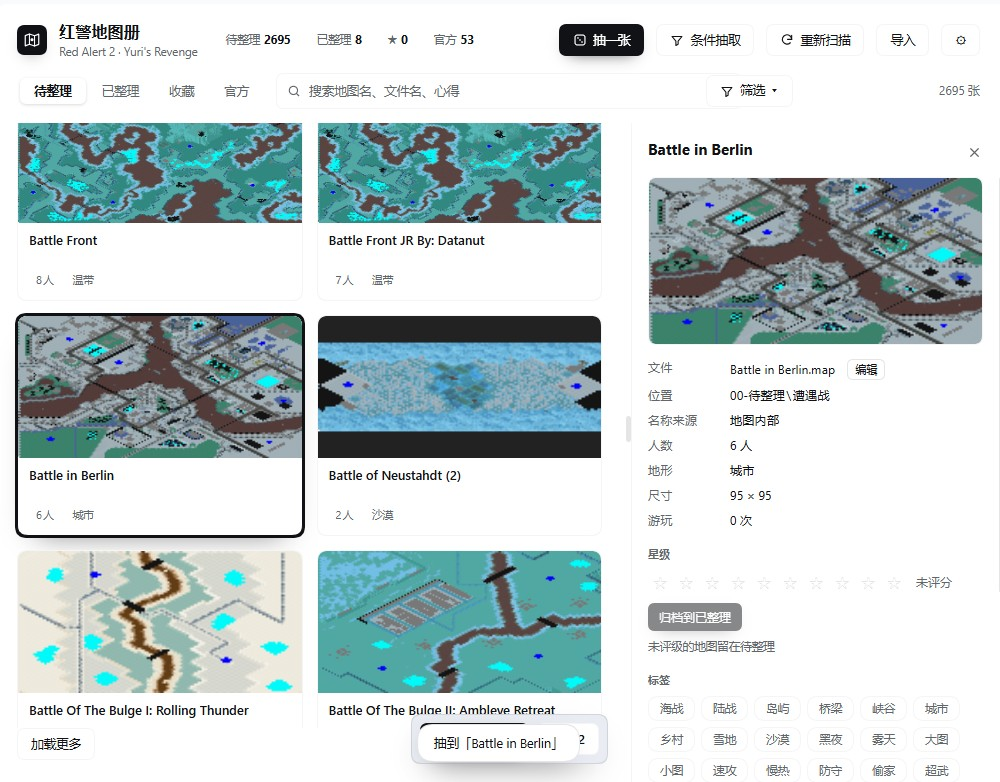
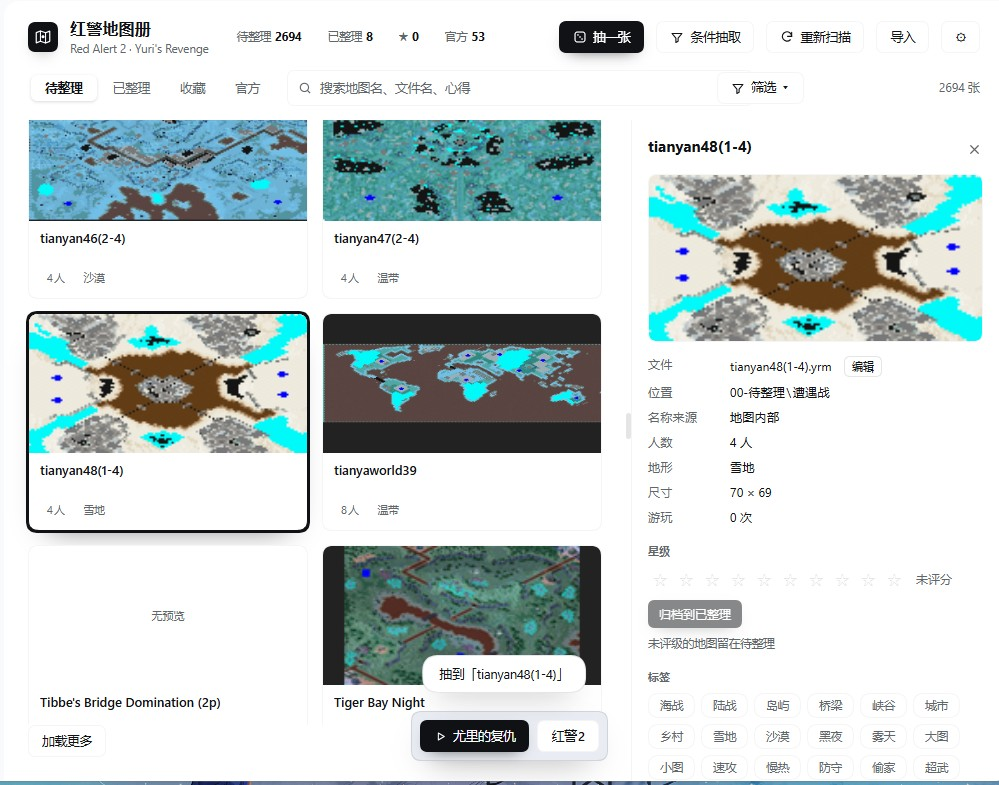
先放着放回待整理；更新抽图与已整理截图

diff --git a/client.js b/client.js
@@ -22,7 +22,7 @@ window.__ModuleLoader__.load({
     const API = '/yr-map-atlas/api';
     // Reverse lookup: keep the Chinese literal inline, swap it at render time.
     let curLocale = 'zh';
-    const EN_UI = {"红警地图册": "Map Atlas", "待整理": "Pool", "已整理": "Owned", "抽一张": "Draw", "重新扫描": "Rescan", "确认归位": "Save", "再来一局": "Play again", "先放着": "Later", "删除": "Delete", "加载更多": "Load more", "打开文件夹": "Open folder", "正在建立索引": "Indexing", "没有匹配的地图": "No matching maps", "搜索地图名、文件名、心得": "Search map name, file name or notes", "首次设置": "First-time setup", "三步完成，之后可在设置里修改": "Three steps. You can change everything later in Settings.", "① 地图库放在哪里": "1  Where should the library live?", "所有地图、星级文件夹和笔记都会放在这里": "Maps, star folders and notes all live here", "选择文件夹": "Choose folder", "重新检测": "Re-check", "中文（00-待整理 / 1人 / 0星）": "Chinese (00-待整理 / 1人 / 0星)", "Chinese (00-待整理 / 1人 / 0星)": "English (00-Inbox / 1P / 0Star)", "目录命名": "Folder naming", "② 游戏目录（可跳过）": "2  Game folder (optional)", "跳过": "Skip", "开始建立": "Build library", "正在建立…": "Building…", "目录可写": "folder is writable", "⚠ 这个目录不可写": "⚠ folder is not writable", "目录已存在": "folder exists", "目录不存在，将自动创建": "will be created", "检测到已有地图库，将直接使用": "Existing library found — it will be used as is", "张地图": "maps found", "找到启动程序": "launchers found", "没找到启动程序，可稍后在设置里指定": "No launcher found — you can set it later in Settings", "界面语言": "Language", "请先选择地图库文件夹": "Choose the library folder first", "建立失败": "Setup failed", "无法打开目录选择器：": "Folder picker failed: ", "插件未就绪": "Plugin not ready", "无法打开会话": "Could not open a conversation", "导入": "Import", "导入地图": "Import maps", "把旧文件夹里的地图和压缩包收进地图库": "Bring maps and archives from an old folder into the library", "关闭": "Close", "① 选择要导入的文件夹": "1  Choose the folder to import", "选原来的地图目录，或放着压缩包的下载文件夹": "Pick your old map folder, or the folder holding the archives", "粘贴路径或点右边选择": "paste a path or pick on the right", "开始扫描": "Scan", "扫描中…": "Scanning…", "正在扫描…": "Scanning…", "正在导入…": "Importing…", "取消": "Cancel", "② 扫描结果": "2  Scan result", "③ 处理方式": "3  How to handle", "重复地图（与库里内容相同的）": "Duplicate maps (same content as the library)", "只留一份": "Keep one", "移到 _重复": "Move to _Duplicates", "全都保留": "Keep all", "文件名": "File name", "用地图内部名": "Use the map title", "保持原文件名": "Keep the original", "压缩包": "Archives", "解压后归档": "Extract, then archive", "原样归档": "Archive as-is", "预览图": "Preview images", "归档": "Archive", "开始导入": "Start import", "④ 完成": "4  Done", "撤销这次导入": "Undo this import", "把这次导入的文件全部搬回原处？": "Move every file from this import back?", "撤销失败": "Undo failed", "请先选择文件夹": "Choose a folder first", "扫描失败": "Scan failed", "导入失败": "Import failed", "地图库位置": "Library folder", "游戏目录（留空 = 纯收藏）": "Game folder (blank = collection only)", "不填就不启动游戏": "leave blank to never launch the game", "保存": "Save", "保存中…": "Saving…", "尚未初始化": "not configured", "维护": "Maintenance", "检查地图": "Check maps", "检查并修复": "Check and fix", "重建索引": "Rebuild index", "导出诊断包": "Export diagnostics", "打包中…": "Packing…", "已保存，正在重建索引": "Saved, rebuilding the index", "开始检查": "Check started", "检查并修复已开始": "Check & fix started", "诊断包已生成：": "Diagnostics written: ", "导出失败": "Export failed", "检查中 ": "Checking ", "✔ 正常 ": "✔ healthy ", " · 可修复 ": " · fixable ", " · 已隔离 ": " · quarantined ", " · 格式异常 ": " · odd format ", "无预览": "no preview", "未评分": "unrated", "点击取消": "click to remove", "自定义标签，回车添加": "custom tag, Enter to add", "添加": "Add", "温带": "Temperate", "雪地": "Snow", "沙漠": "Desert", "城市": "Urban", "月球": "Lunar", "默认": "Default", "名称": "Name", "星级": "Stars", "最近游玩": "Recent", "人数": "Players", "玩得多": "Most played", "筛选": "Filter", "地形": "Terrain", "排序": "Sort", "清空筛选": "Clear filters", "无筛选": "No filters", "收起": "Done", "已保存": "Saved", "保存失败": "Save failed", "网络错误": "Network error", "手工指定": "Set by hand", "地图内部": "Map file", "文件": "File", "位置": "Path", "名称来源": "Name from", "尺寸": "Size", "游玩": "Played", "崩溃": "Crashes", "标签": "Tags", "心得": "Notes", "对局记录": "Sessions", "已收藏": "Favorited", "收藏": "Favorite", "取消收藏": "Remove from favorites", "加入收藏": "Add to favorites", "未评级的地图留在待整理": "Unrated maps stay in the pool", "记录打法和注意事项…": "How it plays, what to avoid…", "官方图 · 只读": "official · read-only", "处理中…": "Working…", "删除失败": "Delete failed", "确定删除「": "Delete \"", "」？文件会被直接删除。": "\"? The file is removed.", "交给 AI": "Ask AI", "一键修复": "Auto-fix", "交给 AI 修复": "Ask AI to fix", "检查中…": "Checking…", "生成工单…": "Preparing…", "修复失败": "Repair failed", "生成工单失败": "Could not build the brief", "检查完成，没有需要修复的问题": "Checked — nothing to fix", "这一局异常结束": "This session ended abnormally", "上一局还没有评级": "The last session is not rated yet", "不评级也可以归位，记为 0 星": "You can file it without rating — it counts as 0 stars.", "这张图会被直接删除，确定？": "This map will be deleted. Continue?", "删除这张图": "Delete this map", "已生成修复版：": "Repaired copy: ", "检查结果": "Check result", "没有发现问题": "No problems found", "直接启动修复版": "Launch the repaired copy", "简单写写就行，也可以跳过": "A line or two is fine — or skip it", "抽到「": "Drew \"", "抽图失败": "Draw failed", "游戏已启动，打完后回来记录": "Game started. Come back here when you are done.", "已复制到游戏目录，启动失败：": "Copied to the game folder but the launch failed: ", "先放着，下次再说": "Left for later", "游戏已重启": "Game restarted", "已归位": "Filed", "已删除": "Deleted", "待整理 ": "Pool ", "已整理 ": "Owned ", "官方 ": "Official ", "官方": "official", "红警2": "RA2", "尤里": "YR", "尤里的复仇": "Yuri's Revenge", "修复工单已放进新对话的输入框，按回车开始": "Brief placed in a new conversation — press Enter", "修复工单已复制到剪贴板": "Brief copied to the clipboard", "修复工单已复制到剪贴板：": "Brief copied to the clipboard: ", "工单已填入新对话，按回车开始": "Brief placed in a new conversation — press Enter", "工单已复制到剪贴板": "Brief copied to the clipboard", "已发到地图修复对话": "Sent to the repair conversation", "启动中…": "Starting…", "启动失败": "Launch failed", "启动失败：": "Launch failed: ", "部署失败": "Deploy failed", "未知原因": "unknown reason", "未知": "unknown", "人": "P", "星": " star", "张": "", "次": "", "秒": "s", " 张 · 与库重复 ": " maps · duplicate ", " · 可新增 ": " · new ", " 个文件，": " files, ", " 个官方图包混在待整理里": " official packs sit in the pool", "发现 ": "Found ", " 待整理 · ": " pool · ", " 已整理": " owned", " 小时 ": " h ", " 分": " m", " 分 ": " m ", "，最近": ", last", " 个文件处理失败：": " files failed: ", "已还原 ": "Restored ", " 个文件": " files", "地图 ": "Maps ", "压缩包 ": "Archives ", " · 图片 ": " · images ", " · 其它 ": " · other ", "✔ 新增地图 ": "✔ added ", "· 跳过重复 ": "· skipped ", " · 移到 _重复 ": " · moved to _Duplicates ", "· 归档压缩包 ": "· archived ", " · 解出地图 ": " · extracted ", " · 归档图片 ": " · images ", "① 扫描": "1 scan", "编辑": "Edit", "改名失败": "Rename failed", "已重命名为 ": "Renamed to ", "已打开所在文件夹": "Opened the containing folder", "打开失败": "Could not open", "这张图没有崩溃记录，仍要生成修复工单吗？": "This map has no crash record. Create a repair brief anyway?", "异常修复": "Fix issue", "深度修复": "Deep repair", "整理崩溃现场与结构检查，交给 AI 分析": "Collect the crash context and a structure check for the AI", "自动修复已知问题（座位数不符、MaxPlayer 越界）": "Fix known problems automatically (seat count, MaxPlayer overflow)", "把崩溃现场交给 AI 分析": "Hand the crash context to the AI", "填了才能抽图启动游戏；留空则只做收藏整理": "Draw can launch the game only when this is set. Leave it blank to keep the library only.", "保存后会归位到对应星级文件夹": "Saving files it into the matching star folder", " 人": " players", " 次": " times", " 星": " stars", "，最近 ": ", last ", "新城市": "New Urban", "开始检查并修复": "Check and fix started", "使用说明与常见问题": "Guide and FAQ", "它是什么": "What it is", "把散落的地图整理成库，抽一张进游戏，打完按星级归位，顺手记下心得。": "Turn a pile of map files into a library: draw one, play it, file it by rating, keep a note.", "地图文件内容不动，只按你的评价换文件夹；所有记录存在库里的 .atlas 目录。": "Map files are never edited — only moved between folders. Records live in .atlas inside the library.", "怎么用": "How to use it", "1 放地图": "1  Add maps", "把地图文件放进 00-待整理\\遭遇战，或点右上「导入」批量收进来": "Drop map files into the pool folder, or use Import to bring in a whole folder", "2 抽图": "2  Draw", "点「抽一张」，选尤里或红警2，地图会复制进游戏目录并启动游戏": "Draw copies the map into the game folder and starts the game", "3 打完": "3  Settle", "回到面板点「确认归位」，给星级、选标签、写几句心得": "Come back and press Save: rate it, tag it, write a line or two", "4 归位": "4  File it", "文件自动移到 01-遭遇战\\N人\\N星，之后抽图不会再抽到已评价的图": "The file moves into its player/star folder and will not be drawn again", "5 找图": "5  Find it", "按人数、地形、星级、标签筛选；已整理的地图可以点星收藏": "Filter by players, terrain, stars or tag; star the ones you like", "目录说明": "Folders", "还没评价的图，抽图从这里取": "Unrated maps; the draw pulls from here", "已归位的对战图，按人数和星级分层": "Filed maps, split by players and stars", "战役和任务包": "Campaigns and mission packages", "压缩包、预览图等原始素材": "Archives, previews and other source material", "索引、缩略图、记录；跟着库走，换电脑拷过去即可": "Index, thumbnails, records — travels with the library", "常见问题": "FAQ", "改名会丢记录吗？": "Does renaming lose my record?", "不会。记录按文件内容（MD5）认，改名、移动都不影响。": "No. Records are keyed by file content (MD5), so renaming and moving are safe.", "星级为什么存两处？": "Why are stars stored twice?", "文件夹代表位置，记录代表分数；在面板里评级时两者一起改。": "The folder is where it lives, the record is the score; rating in the panel updates both.", "官方图能评价吗？": "Can I rate official maps?", "能评分、能写心得，但文件是游戏自带的，不会移动或改名。": "Yes, but the files ship with the game: they are never moved or renamed.", "地图一进就崩？": "The map crashes on load?", "结算卡先点「一键修复」，修不了再点「异常修复」，把崩溃现场交给 AI 分析。": "Try Auto-fix first; if that fails use Fix issue to hand the crash context to the AI.", "换电脑怎么搬？": "How do I move to another PC?", "设置里「导出配置」，新机器「导入配置」，再把整个地图库文件夹拷过去。": "Export config on the old machine, import it on the new one, and copy the library folder over.", "导出的是地图吗？": "Does the export include the maps?", "不是。只有星级、标签、心得、收藏和手工命名，地图文件请自行拷贝。": "No. Only stars, tags, notes, favourites and names. Copy the map files yourself.", "导入会覆盖吗？": "Will importing overwrite anything?", "默认合并，只补本地没有的记录；想全部覆盖选「覆盖」模式。": "Merge is the default and only fills gaps. Choose Replace to overwrite.", "能同时用多个库吗？": "Can I use several libraries?", "一次一个库。换库在设置里改路径，旧库的数据留在旧文件夹里。": "One at a time. Switch in Settings; the old library keeps its own data.", "关于": "About", "作者": "Author", "一尾醋醋鱼": "一尾醋醋鱼", "配置格式": "Config format", "配置备份": "Config backup", "只含记录（星级、标签、心得、收藏、命名），不含地图文件；换电脑时把整个地图库一起拷过去": "Records only (stars, tags, notes, favourites, names) — no map files. Copy the library itself separately.", "导出配置": "Export config", "刷新列表": "Refresh", "还没有备份": "No backups yet", "条记录": " records", "个命名": " names", "合并导入": "Merge", "覆盖导入": "Replace", "读取失败": "Could not read", "已导出：": "Exported: ", "已导入 ": "Imported ", " 条（跳过 ": " (skipped ", " 条，": ", ", " 条在库里找不到对应地图）": " have no matching map in this library)", "确定用「": "Import this backup using \"", "」方式导入这份配置？": "\"?", "合并": "merge", "覆盖": "replace", "评级已保存，文件仍留在待整理；打完「确认归位」才归档": "Rating saved. The file stays in the pool until the session is settled.", "保存后会移动到对应星级文件夹": "Saving moves it into the matching star folder", "归档到已整理": "File it", "归档失败": "Could not file it", "不需要真的打一局，直接移动到已整理": "Skip playing — move it into the owned set right away", "可以点「归档到已整理」直接搬过去，不必真的打一局": "Press \"File it\" to move it across without playing a round", "已归档到 ": "Filed at ", "加载中…": "Loading…", "条件抽取": "Draw by filter", "从哪儿抽": "Draw from", "抽取": "Draw", "抽取中…": "Drawing…", "符合条件 ": "Matching: ", " 张": "", "只看收藏": "Favourites only", "还没有任何标签": "No tags yet", "作战配置": "Gameplay options", "写进游戏自己的配置文件，启动游戏前生效；首次写入会自动备份": "Written into the game's own INI and applied before launch. A backup is made on first write.", "起始资金": "Starting credits", "游戏速度": "Game speed", "单位数": "Unit count", "科技等级": "Tech level", "快速游戏": "Short game", "超级武器": "Superweapons", "箱子": "Crates", "盟友建造": "Build off ally", "MCV 重部署": "MCV re-deploy", "迷雾": "Fog of war", "多工程师": "Multi engineer", "可摧毁桥梁": "Destructible bridges", "自定义参数": "Custom keys", "每行一个 key=value，教程里的隐藏选项都可以加在这里": "One key=value per line — put hidden options from tutorials here", "启动游戏前自动应用": "Apply before launch", "立即写入": "Write now", "还原备份": "Restore backup", "还原中…": "Restoring…", "已写入游戏配置": "Written into the game config", "已还原原始配置": "Original config restored", "还原失败": "Restore failed", "找不到文件：": "File not found: ", "开": "On", "关": "Off", "游戏模式": "Game mode", "作战": "Battle", "自由交战": "Free-for-all", "合作模式": "Co-op", "邪恶联盟": "Evil alliance", "巨富": "Rich", "抢地盘": "Land grab", "生死斗": "Deathmatch", "海战": "Naval war", "小队联盟": "Squad alliance", "所有电脑围攻你一个": "Every AI attacks you", "大乱斗": "Everyone against everyone", "和小队协作": "Team up with a squad", "可发展所有国家的科技": "Build every side's tech", "无矿场，只能靠占油井收入": "No ore drills — income comes from oil derricks", "开局几条狗，地盘全靠抢": "Start with a few dogs; grab ground fast", "无高科技": "No high tech", "无坦克": "No tanks", "和电脑一起打电脑": "Fight the AI alongside an AI", "当前：": "Current: ", "当前未设置，游戏默认是 1 作战": "Not set — the game defaults to 1 Battle", "改完要重启游戏；游戏运行中会把这个文件写回默认值": "Restart the game after changing this; a running game writes the file back", "地图库设置": "Library setup", "作战配置、配置备份、体检、导入，都在「设置 → 红警地图册」里": "Gameplay options, backup, health check and import all live in Settings → Map Atlas", "插件设置": "Plugin settings", "配置备份、体检、诊断包在「设置 → 红警地图册」里": "Config backup, health check and diagnostics live in Settings → Map Atlas", "搜索标签，或输入新名字回车创建": "Search tags, or type a new one and press Enter", "没有这个标签，回车新建": "No such tag — press Enter to create it", "新建": "Create"};
+    const EN_UI = {"红警地图册": "Map Atlas", "待整理": "Pool", "已整理": "Owned", "抽一张": "Draw", "重新扫描": "Rescan", "确认归位": "Save", "再来一局": "Play again", "先放着": "Later", "删除": "Delete", "加载更多": "Load more", "打开文件夹": "Open folder", "正在建立索引": "Indexing", "没有匹配的地图": "No matching maps", "搜索地图名、文件名、心得": "Search map name, file name or notes", "首次设置": "First-time setup", "三步完成，之后可在设置里修改": "Three steps. You can change everything later in Settings.", "① 地图库放在哪里": "1  Where should the library live?", "所有地图、星级文件夹和笔记都会放在这里": "Maps, star folders and notes all live here", "选择文件夹": "Choose folder", "重新检测": "Re-check", "中文（00-待整理 / 1人 / 0星）": "Chinese (00-待整理 / 1人 / 0星)", "Chinese (00-待整理 / 1人 / 0星)": "English (00-Inbox / 1P / 0Star)", "目录命名": "Folder naming", "② 游戏目录（可跳过）": "2  Game folder (optional)", "跳过": "Skip", "开始建立": "Build library", "正在建立…": "Building…", "目录可写": "folder is writable", "⚠ 这个目录不可写": "⚠ folder is not writable", "目录已存在": "folder exists", "目录不存在，将自动创建": "will be created", "检测到已有地图库，将直接使用": "Existing library found — it will be used as is", "张地图": "maps found", "找到启动程序": "launchers found", "没找到启动程序，可稍后在设置里指定": "No launcher found — you can set it later in Settings", "界面语言": "Language", "请先选择地图库文件夹": "Choose the library folder first", "建立失败": "Setup failed", "无法打开目录选择器：": "Folder picker failed: ", "插件未就绪": "Plugin not ready", "无法打开会话": "Could not open a conversation", "导入": "Import", "导入地图": "Import maps", "把旧文件夹里的地图和压缩包收进地图库": "Bring maps and archives from an old folder into the library", "关闭": "Close", "① 选择要导入的文件夹": "1  Choose the folder to import", "选原来的地图目录，或放着压缩包的下载文件夹": "Pick your old map folder, or the folder holding the archives", "粘贴路径或点右边选择": "paste a path or pick on the right", "开始扫描": "Scan", "扫描中…": "Scanning…", "正在扫描…": "Scanning…", "正在导入…": "Importing…", "取消": "Cancel", "② 扫描结果": "2  Scan result", "③ 处理方式": "3  How to handle", "重复地图（与库里内容相同的）": "Duplicate maps (same content as the library)", "只留一份": "Keep one", "移到 _重复": "Move to _Duplicates", "全都保留": "Keep all", "文件名": "File name", "用地图内部名": "Use the map title", "保持原文件名": "Keep the original", "压缩包": "Archives", "解压后归档": "Extract, then archive", "原样归档": "Archive as-is", "预览图": "Preview images", "归档": "Archive", "开始导入": "Start import", "④ 完成": "4  Done", "撤销这次导入": "Undo this import", "把这次导入的文件全部搬回原处？": "Move every file from this import back?", "撤销失败": "Undo failed", "请先选择文件夹": "Choose a folder first", "扫描失败": "Scan failed", "导入失败": "Import failed", "地图库位置": "Library folder", "游戏目录（留空 = 纯收藏）": "Game folder (blank = collection only)", "不填就不启动游戏": "leave blank to never launch the game", "保存": "Save", "保存中…": "Saving…", "尚未初始化": "not configured", "维护": "Maintenance", "检查地图": "Check maps", "检查并修复": "Check and fix", "重建索引": "Rebuild index", "导出诊断包": "Export diagnostics", "打包中…": "Packing…", "已保存，正在重建索引": "Saved, rebuilding the index", "开始检查": "Check started", "检查并修复已开始": "Check & fix started", "诊断包已生成：": "Diagnostics written: ", "导出失败": "Export failed", "检查中 ": "Checking ", "✔ 正常 ": "✔ healthy ", " · 可修复 ": " · fixable ", " · 已隔离 ": " · quarantined ", " · 格式异常 ": " · odd format ", "无预览": "no preview", "未评分": "unrated", "点击取消": "click to remove", "自定义标签，回车添加": "custom tag, Enter to add", "添加": "Add", "温带": "Temperate", "雪地": "Snow", "沙漠": "Desert", "城市": "Urban", "月球": "Lunar", "默认": "Default", "名称": "Name", "星级": "Stars", "最近游玩": "Recent", "人数": "Players", "玩得多": "Most played", "筛选": "Filter", "地形": "Terrain", "排序": "Sort", "清空筛选": "Clear filters", "无筛选": "No filters", "收起": "Done", "已保存": "Saved", "保存失败": "Save failed", "网络错误": "Network error", "手工指定": "Set by hand", "地图内部": "Map file", "文件": "File", "位置": "Path", "名称来源": "Name from", "尺寸": "Size", "游玩": "Played", "崩溃": "Crashes", "标签": "Tags", "心得": "Notes", "对局记录": "Sessions", "已收藏": "Favorited", "收藏": "Favorite", "取消收藏": "Remove from favorites", "加入收藏": "Add to favorites", "未评级的地图留在待整理": "Unrated maps stay in the pool", "记录打法和注意事项…": "How it plays, what to avoid…", "官方图 · 只读": "official · read-only", "处理中…": "Working…", "删除失败": "Delete failed", "确定删除「": "Delete \"", "」？文件会被直接删除。": "\"? The file is removed.", "交给 AI": "Ask AI", "一键修复": "Auto-fix", "交给 AI 修复": "Ask AI to fix", "检查中…": "Checking…", "生成工单…": "Preparing…", "修复失败": "Repair failed", "生成工单失败": "Could not build the brief", "检查完成，没有需要修复的问题": "Checked — nothing to fix", "这一局异常结束": "This session ended abnormally", "上一局还没有评级": "The last session is not rated yet", "不评级也可以归位，记为 0 星": "You can file it without rating — it counts as 0 stars.", "这张图会被直接删除，确定？": "This map will be deleted. Continue?", "删除这张图": "Delete this map", "已生成修复版：": "Repaired copy: ", "检查结果": "Check result", "没有发现问题": "No problems found", "直接启动修复版": "Launch the repaired copy", "简单写写就行，也可以跳过": "A line or two is fine — or skip it", "抽到「": "Drew \"", "抽图失败": "Draw failed", "游戏已启动，打完后回来记录": "Game started. Come back here when you are done.", "已复制到游戏目录，启动失败：": "Copied to the game folder but the launch failed: ", "先放着，下次再说": "Left for later", "游戏已重启": "Game restarted", "已归位": "Filed", "已删除": "Deleted", "待整理 ": "Pool ", "已整理 ": "Owned ", "官方 ": "Official ", "官方": "official", "红警2": "RA2", "尤里": "YR", "尤里的复仇": "Yuri's Revenge", "修复工单已放进新对话的输入框，按回车开始": "Brief placed in a new conversation — press Enter", "修复工单已复制到剪贴板": "Brief copied to the clipboard", "修复工单已复制到剪贴板：": "Brief copied to the clipboard: ", "工单已填入新对话，按回车开始": "Brief placed in a new conversation — press Enter", "工单已复制到剪贴板": "Brief copied to the clipboard", "已发到地图修复对话": "Sent to the repair conversation", "启动中…": "Starting…", "启动失败": "Launch failed", "启动失败：": "Launch failed: ", "部署失败": "Deploy failed", "未知原因": "unknown reason", "未知": "unknown", "人": "P", "星": " star", "张": "", "次": "", "秒": "s", " 张 · 与库重复 ": " maps · duplicate ", " · 可新增 ": " · new ", " 个文件，": " files, ", " 个官方图包混在待整理里": " official packs sit in the pool", "发现 ": "Found ", " 待整理 · ": " pool · ", " 已整理": " owned", " 小时 ": " h ", " 分": " m", " 分 ": " m ", "，最近": ", last", " 个文件处理失败：": " files failed: ", "已还原 ": "Restored ", " 个文件": " files", "地图 ": "Maps ", "压缩包 ": "Archives ", " · 图片 ": " · images ", " · 其它 ": " · other ", "✔ 新增地图 ": "✔ added ", "· 跳过重复 ": "· skipped ", " · 移到 _重复 ": " · moved to _Duplicates ", "· 归档压缩包 ": "· archived ", " · 解出地图 ": " · extracted ", " · 归档图片 ": " · images ", "① 扫描": "1 scan", "编辑": "Edit", "改名失败": "Rename failed", "已重命名为 ": "Renamed to ", "已打开所在文件夹": "Opened the containing folder", "打开失败": "Could not open", "这张图没有崩溃记录，仍要生成修复工单吗？": "This map has no crash record. Create a repair brief anyway?", "异常修复": "Fix issue", "深度修复": "Deep repair", "整理崩溃现场与结构检查，交给 AI 分析": "Collect the crash context and a structure check for the AI", "自动修复已知问题（座位数不符、MaxPlayer 越界）": "Fix known problems automatically (seat count, MaxPlayer overflow)", "把崩溃现场交给 AI 分析": "Hand the crash context to the AI", "填了才能抽图启动游戏；留空则只做收藏整理": "Draw can launch the game only when this is set. Leave it blank to keep the library only.", "保存后会归位到对应星级文件夹": "Saving files it into the matching star folder", " 人": " players", " 次": " times", " 星": " stars", "，最近 ": ", last ", "新城市": "New Urban", "开始检查并修复": "Check and fix started", "使用说明与常见问题": "Guide and FAQ", "它是什么": "What it is", "把散落的地图整理成库，抽一张进游戏，打完按星级归位，顺手记下心得。": "Turn a pile of map files into a library: draw one, play it, file it by rating, keep a note.", "地图文件内容不动，只按你的评价换文件夹；所有记录存在库里的 .atlas 目录。": "Map files are never edited — only moved between folders. Records live in .atlas inside the library.", "怎么用": "How to use it", "1 放地图": "1  Add maps", "把地图文件放进 00-待整理\\遭遇战，或点右上「导入」批量收进来": "Drop map files into the pool folder, or use Import to bring in a whole folder", "2 抽图": "2  Draw", "点「抽一张」，选尤里或红警2，地图会复制进游戏目录并启动游戏": "Draw copies the map into the game folder and starts the game", "3 打完": "3  Settle", "回到面板点「确认归位」，给星级、选标签、写几句心得": "Come back and press Save: rate it, tag it, write a line or two", "4 归位": "4  File it", "文件自动移到 01-遭遇战\\N人\\N星，之后抽图不会再抽到已评价的图": "The file moves into its player/star folder and will not be drawn again", "5 找图": "5  Find it", "按人数、地形、星级、标签筛选；已整理的地图可以点星收藏": "Filter by players, terrain, stars or tag; star the ones you like", "目录说明": "Folders", "还没评价的图，抽图从这里取": "Unrated maps; the draw pulls from here", "已归位的对战图，按人数和星级分层": "Filed maps, split by players and stars", "战役和任务包": "Campaigns and mission packages", "压缩包、预览图等原始素材": "Archives, previews and other source material", "索引、缩略图、记录；跟着库走，换电脑拷过去即可": "Index, thumbnails, records — travels with the library", "常见问题": "FAQ", "改名会丢记录吗？": "Does renaming lose my record?", "不会。记录按文件内容（MD5）认，改名、移动都不影响。": "No. Records are keyed by file content (MD5), so renaming and moving are safe.", "星级为什么存两处？": "Why are stars stored twice?", "文件夹代表位置，记录代表分数；在面板里评级时两者一起改。": "The folder is where it lives, the record is the score; rating in the panel updates both.", "官方图能评价吗？": "Can I rate official maps?", "能评分、能写心得，但文件是游戏自带的，不会移动或改名。": "Yes, but the files ship with the game: they are never moved or renamed.", "地图一进就崩？": "The map crashes on load?", "结算卡先点「一键修复」，修不了再点「异常修复」，把崩溃现场交给 AI 分析。": "Try Auto-fix first; if that fails use Fix issue to hand the crash context to the AI.", "换电脑怎么搬？": "How do I move to another PC?", "设置里「导出配置」，新机器「导入配置」，再把整个地图库文件夹拷过去。": "Export config on the old machine, import it on the new one, and copy the library folder over.", "导出的是地图吗？": "Does the export include the maps?", "不是。只有星级、标签、心得、收藏和手工命名，地图文件请自行拷贝。": "No. Only stars, tags, notes, favourites and names. Copy the map files yourself.", "导入会覆盖吗？": "Will importing overwrite anything?", "默认合并，只补本地没有的记录；想全部覆盖选「覆盖」模式。": "Merge is the default and only fills gaps. Choose Replace to overwrite.", "能同时用多个库吗？": "Can I use several libraries?", "一次一个库。换库在设置里改路径，旧库的数据留在旧文件夹里。": "One at a time. Switch in Settings; the old library keeps its own data.", "关于": "About", "作者": "Author", "一尾醋醋鱼": "一尾醋醋鱼", "配置格式": "Config format", "配置备份": "Config backup", "只含记录（星级、标签、心得、收藏、命名），不含地图文件；换电脑时把整个地图库一起拷过去": "Records only (stars, tags, notes, favourites, names) — no map files. Copy the library itself separately.", "导出配置": "Export config", "刷新列表": "Refresh", "还没有备份": "No backups yet", "条记录": " records", "个命名": " names", "合并导入": "Merge", "覆盖导入": "Replace", "读取失败": "Could not read", "已导出：": "Exported: ", "已导入 ": "Imported ", " 条（跳过 ": " (skipped ", " 条，": ", ", " 条在库里找不到对应地图）": " have no matching map in this library)", "确定用「": "Import this backup using \"", "」方式导入这份配置？": "\"?", "合并": "merge", "覆盖": "replace", "评级已保存，文件仍留在待整理；打完「确认归位」才归档": "Rating saved. The file stays in the pool until the session is settled.", "保存后会移动到对应星级文件夹": "Saving moves it into the matching star folder", "归档到已整理": "File it", "归档失败": "Could not file it", "不需要真的打一局，直接移动到已整理": "Skip playing — move it into the owned set right away", "可以点「归档到已整理」直接搬过去，不必真的打一局": "Press \"File it\" to move it across without playing a round", "已归档到 ": "Filed at ", "加载中…": "Loading…", "条件抽取": "Draw by filter", "从哪儿抽": "Draw from", "抽取": "Draw", "抽取中…": "Drawing…", "符合条件 ": "Matching: ", " 张": "", "只看收藏": "Favourites only", "还没有任何标签": "No tags yet", "作战配置": "Gameplay options", "写进游戏自己的配置文件，启动游戏前生效；首次写入会自动备份": "Written into the game's own INI and applied before launch. A backup is made on first write.", "起始资金": "Starting credits", "游戏速度": "Game speed", "单位数": "Unit count", "科技等级": "Tech level", "快速游戏": "Short game", "超级武器": "Superweapons", "箱子": "Crates", "盟友建造": "Build off ally", "MCV 重部署": "MCV re-deploy", "迷雾": "Fog of war", "多工程师": "Multi engineer", "可摧毁桥梁": "Destructible bridges", "自定义参数": "Custom keys", "每行一个 key=value，教程里的隐藏选项都可以加在这里": "One key=value per line — put hidden options from tutorials here", "启动游戏前自动应用": "Apply before launch", "立即写入": "Write now", "还原备份": "Restore backup", "还原中…": "Restoring…", "已写入游戏配置": "Written into the game config", "已还原原始配置": "Original config restored", "还原失败": "Restore failed", "找不到文件：": "File not found: ", "开": "On", "关": "Off", "游戏模式": "Game mode", "作战": "Battle", "自由交战": "Free-for-all", "合作模式": "Co-op", "邪恶联盟": "Evil alliance", "巨富": "Rich", "抢地盘": "Land grab", "生死斗": "Deathmatch", "海战": "Naval war", "小队联盟": "Squad alliance", "所有电脑围攻你一个": "Every AI attacks you", "大乱斗": "Everyone against everyone", "和小队协作": "Team up with a squad", "可发展所有国家的科技": "Build every side's tech", "无矿场，只能靠占油井收入": "No ore drills — income comes from oil derricks", "开局几条狗，地盘全靠抢": "Start with a few dogs; grab ground fast", "无高科技": "No high tech", "无坦克": "No tanks", "和电脑一起打电脑": "Fight the AI alongside an AI", "当前：": "Current: ", "当前未设置，游戏默认是 1 作战": "Not set — the game defaults to 1 Battle", "改完要重启游戏；游戏运行中会把这个文件写回默认值": "Restart the game after changing this; a running game writes the file back", "地图库设置": "Library setup", "作战配置、配置备份、体检、导入，都在「设置 → 红警地图册」里": "Gameplay options, backup, health check and import all live in Settings → Map Atlas", "插件设置": "Plugin settings", "配置备份、体检、诊断包在「设置 → 红警地图册」里": "Config backup, health check and diagnostics live in Settings → Map Atlas", "搜索标签，或输入新名字回车创建": "Search tags, or type a new one and press Enter", "没有这个标签，回车新建": "No such tag — press Enter to create it", "新建": "Create", "已放回待整理": "Returned to the pool", "已移出游戏目录，原图留在库里": "Removed from the game folder; the library copy is untouched"};
     function T(s) {
       const loc = curLocale || 'zh';
       if (loc.indexOf('en') === 0) return EN_UI[s] || s;
@@ -1720,7 +1720,10 @@ window.__ModuleLoader__.load({
               }, h(IconSpark), busy === 'ai' ? T('生成工单…') : T('异常修复')) : null,
               h('button', {
                 type: 'button', className: 'yma-btn yma-btn--ghost', disabled: !!busy,
-                onClick: async () => { await post('discard', {}); props.onLater(); },
+                onClick: async () => {
+                  const r = await post('discard', {});
+                  props.onLater(r.ok ? r.result : null);
+                },
               }, tr('btn.later')),
               h('button', {
                 type: 'button', className: 'yma-btn yma-btn--danger', disabled: !!busy,
@@ -2003,7 +2006,15 @@ window.__ModuleLoader__.load({
           ? h(SettleCard, {
             pending,
             onDone: () => { refreshState(); load(true); setSelected(null); setToast({ text: T('已归位') }); },
-            onLater: () => { refreshState(); setToast({ text: T('先放着，下次再说') }); },
+            onLater: (res) => {
+              refreshState();
+              load(true);
+              setToast({
+                text: res && res.returned ? T('已放回待整理')
+                  : res && res.copied ? T('已移出游戏目录，原图留在库里')
+                    : T('先放着，下次再说'),
+              });
+            },
             onReplay: () => { refreshState(); setToast({ text: T('游戏已重启') }); },
           })
           : null,

diff --git a/index.js b/index.js
@@ -1930,6 +1930,36 @@ function makeService(config) {
     return p;
   }
 
+  /**
+   * "先放着" — close the settlement without recording anything.
+   * The map must not be left stranded in the game folder: a pool map goes back
+   * to the pool under its original file name, while an owned map only had a
+   * copy there, so that copy is removed and the library original stays put.
+   */
+  function parkPending() {
+    const p = state.pending;
+    if (!p) return null;
+    stopWatch();
+    let returned = false;
+    try {
+      if (p.copy) {
+        if (p.deployedPath && existsSync(p.deployedPath)) unlinkSync(p.deployedPath);
+      } else {
+        const dir = join(cfg.libraryRoot, layout.pool, layout.poolPlain);
+        const from = p.deployedPath && existsSync(p.deployedPath) ? p.deployedPath : p.fromPath;
+        if (from && existsSync(from)) {
+          const name = p.file || (safeName(p.name || stripExt(from)) + extname(from));
+          moveInto(from, dir, name);
+          returned = true;
+        }
+      }
+    } catch (e) { log("parkPending failed", e?.message); }
+    state.pending = null;
+    saveStateSoon();
+    state.version++;
+    return { returned, copied: !!p.copy };
+  }
+
   /* ------------------------------------------------------------ http ---- */
   function sendJson(res, status, obj) {
     const body = Buffer.from(JSON.stringify(obj), "utf8");
@@ -2373,10 +2403,9 @@ function makeService(config) {
             return sendJson(res, 200, { ok: true, result: { saved: true } });
           }
           case "discard": {
-            // close the settlement without recording; the deployed map stays put
-            const p = dropPending(false);
-            state.version++;
-            return sendJson(res, 200, { ok: true, result: { discarded: !!p } });
+            // "先放着": close the settlement and put the map back where it belongs
+            const r = parkPending();
+            return sendJson(res, 200, { ok: true, result: { discarded: !!r, ...(r || {}) } });
           }
           case "returnToPool": {
             if (!state.pending) return sendJson(res, 200, { ok: false, error: "没有待处理的地图" });

diff --git a/README.en.md b/README.en.md
@@ -38,6 +38,10 @@ Map Atlas turns that pile into **a library you can browse**: draw a map into the
 
 ![Library](docs/screenshots/01-library.jpg)
 
+**Owned maps** — filed by player count and rating, with tags right on the card
+
+![Owned](docs/screenshots/05-owned.jpg)
+
 **Draw and detail** — the drawn map is scrolled into view, with rating, tags and notes on the right
 
 ![Detail](docs/screenshots/02-detail.jpg)
@@ -191,6 +195,12 @@ Press **Auto-fix** in the settlement card; if that fails, **Fix issue** hands th
 
 **Does rating a map in the pool file it?**
 No — in the pool a rating is only recorded. Press **File it** to move it into the owned set early.
+
+**No settlement card after playing?**
+Only a game started from **Draw** inside the plugin is tracked. If you launch the game from a desktop icon, the plugin has no idea which map you played.
+
+**Where does the map go after "Later"?**
+Back to the pool. It is not left behind in the game folder, and the draw can pick it again.
 
 **Several libraries at once?**
 One at a time. Switch in Settings; the old library keeps its own data.

diff --git a/README.md b/README.md
@@ -38,6 +38,10 @@
 
 ![地图库](docs/screenshots/01-library.jpg)
 
+**已整理** —— 按人数和星级分层，标签和星级直接标在卡片上
+
+![已整理](docs/screenshots/05-owned.jpg)
+
 **抽图与详情** —— 抽到后列表自动定位高亮，右侧直接评级、打标签、写心得
 
 ![详情](docs/screenshots/02-detail.jpg)
@@ -189,6 +193,12 @@
 
 **Q：待整理里打星会直接归档吗？**
 不会。待整理里评级只是记录，文件还留在待整理。想提前归档，点「归档到已整理」。
+
+**Q：打完游戏没有出现结算卡？**
+只有在插件里点「抽一张」启动的游戏才会被记录。从桌面图标自己进游戏，插件不知道你玩了哪张图。
+
+**Q：点「先放着」之后，地图去哪了？**
+放回待整理，不会留在游戏目录里，下次还能抽到它。
 
 **Q：支持多个地图库吗？**
 一次一个。换库在设置里改路径，旧库的数据留在旧文件夹里。
